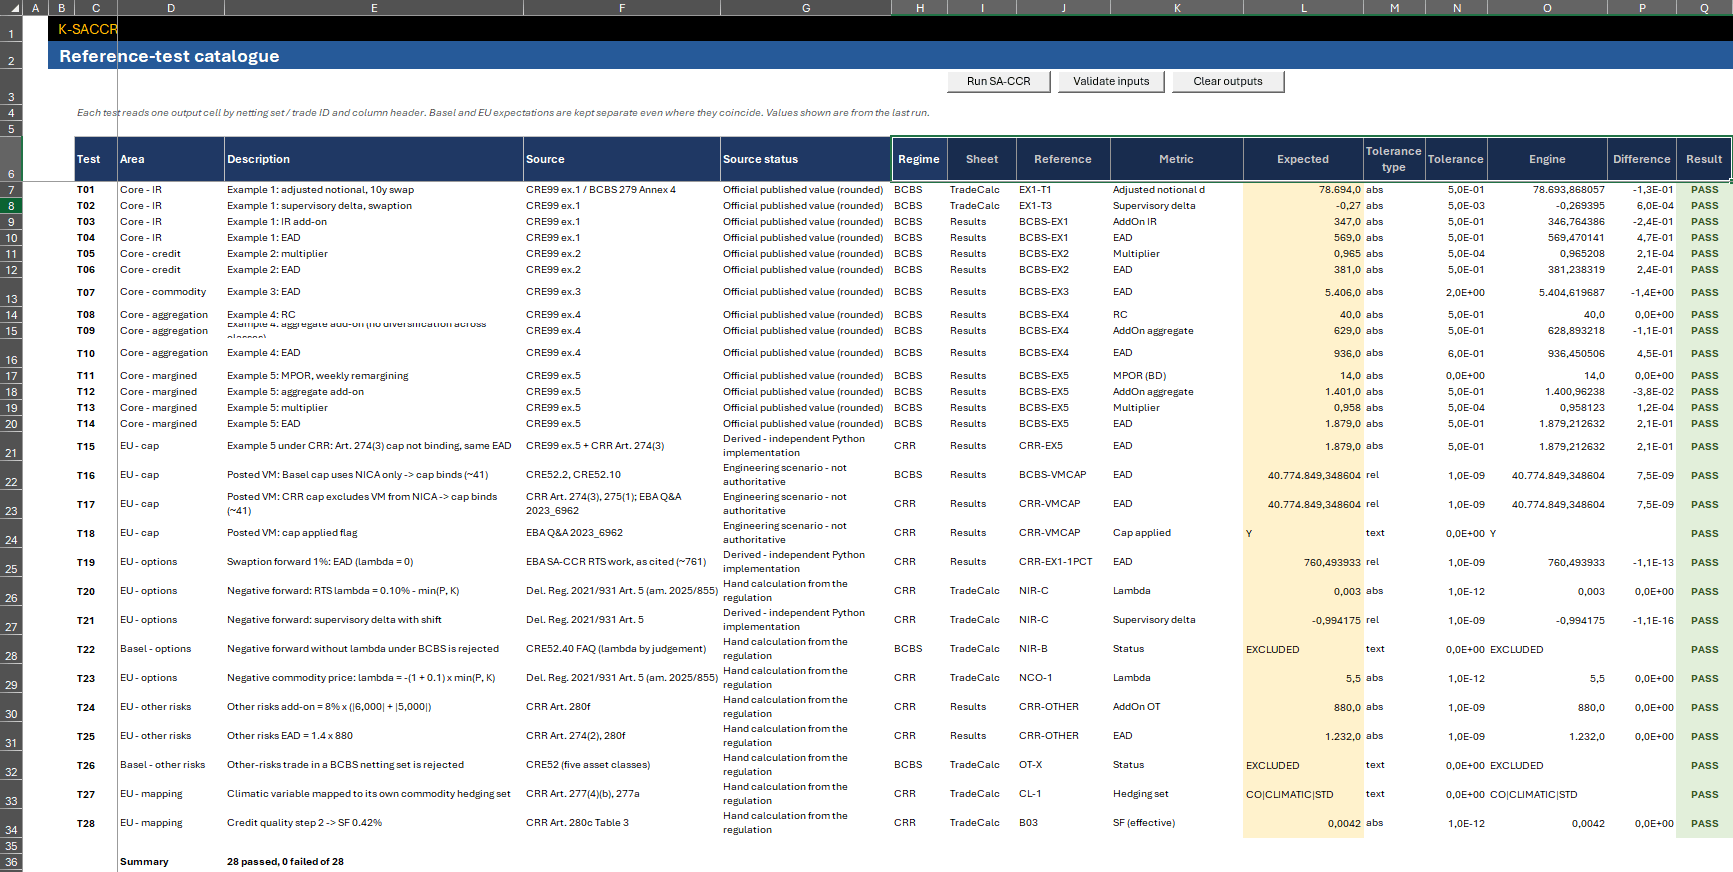
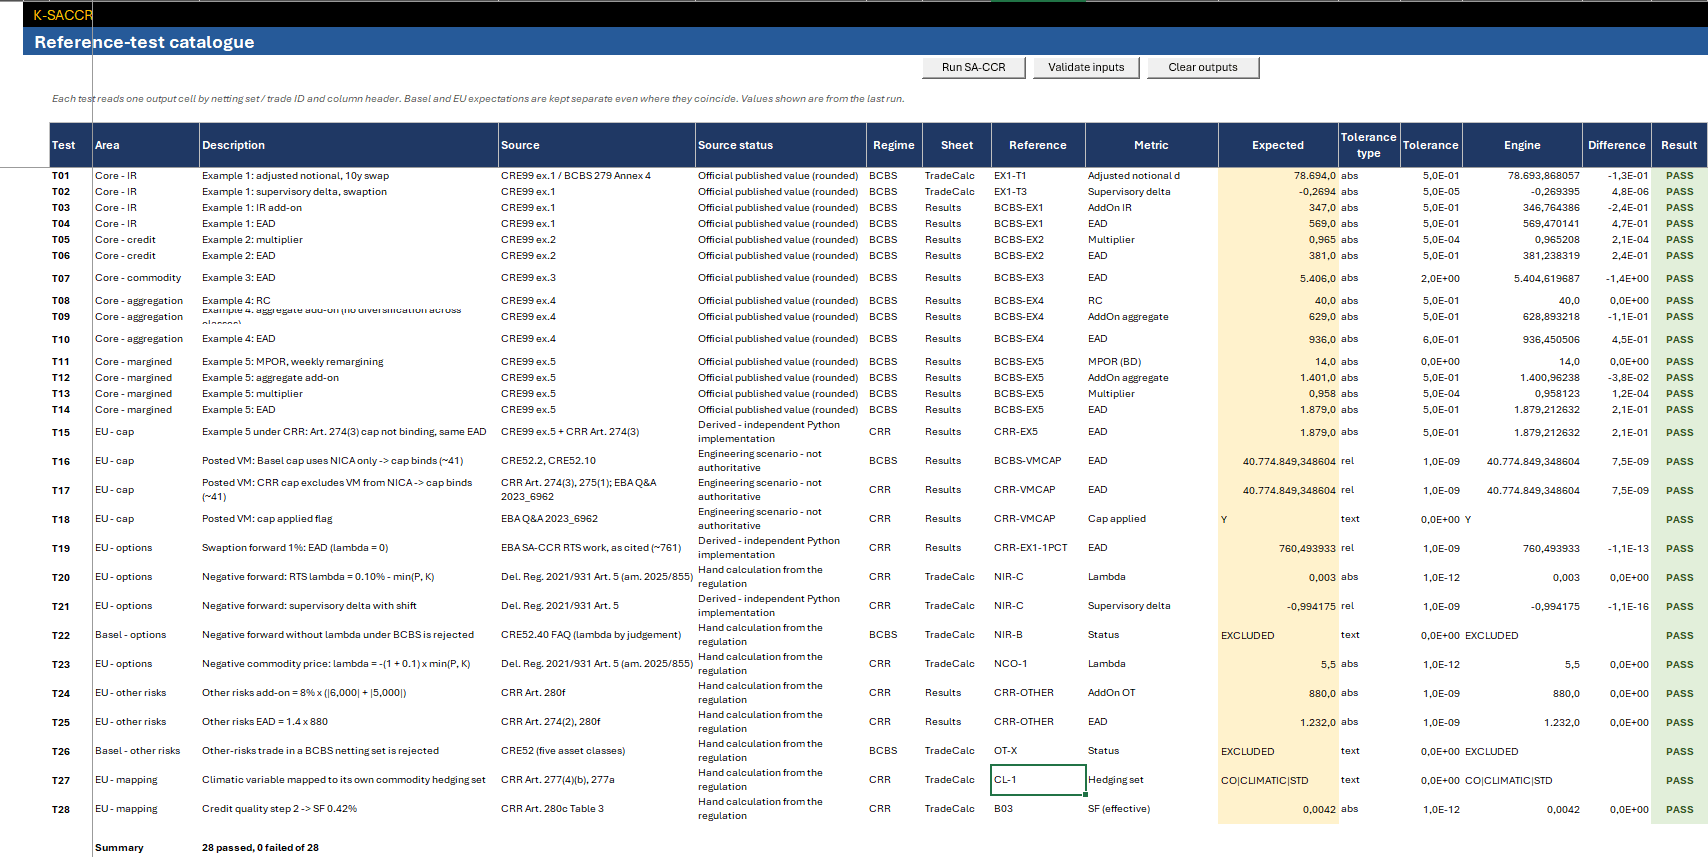
Align three template cells with the expected files and the methodology (#269)
Closes #267. TestCatalogue T02 expects -0.2694 with tolerance 0.00005; the T27 note cites Art. 280e(5), 18%; Basel_vs_CRR K13 states the decided other-risks hedging-set treatment. The README records the owner's Test_RunAll run on this template and the TestCatalogue and Basel_vs_CRR screenshots are retaken. Validated with python tools/check.py; verified in Excel by the owner (Test_RunAll 8/8 at bb7dc8e, TestCatalogue 28 passed, 0 failed).

Changed region(s): [[0.0, 0.0, 1.0, 1.0], [0.8999, 0.9405, 0.993, 0.9708]]

diff --git a/README.md b/README.md
@@ -238,16 +238,16 @@ Test_RunAll
 ```
 
 ```text
-SACCR TEST SUMMARY 2026-10-16 13:02:15
+SACCR TEST SUMMARY 2026-10-16 16:44:53
   PASS  TEST_Harness          completeness=COMPLETE; cases=4; assertions=6; failures=0; cleanup=PASS  (0,0 s)
   PASS  TEST_Formulas         cases=9; checks=82; failures=0  (0,1 s)
-  PASS  TEST_MainState        cases=28; checks=491; failures=0; caller_state=RESTORED  (16,3 s)
-  PASS  TEST_Cases            cases=20; checks=39; failures=0; restore=PASS  (2,9 s)
-  PASS  TEST_InputValidation  cases=133; checks=209; failures=0; restore=PASS  (14,1 s)
-  PASS  TEST_Aggregation      cases=11; checks=11; failures=0; restore=PASS  (2,3 s)
+  PASS  TEST_MainState        cases=28; checks=491; failures=0; caller_state=RESTORED  (24,3 s)
+  PASS  TEST_Cases            cases=20; checks=39; failures=0; restore=PASS  (2,8 s)
+  PASS  TEST_InputValidation  cases=133; checks=209; failures=0; restore=PASS  (15,5 s)
+  PASS  TEST_Aggregation      cases=11; checks=11; failures=0; restore=PASS  (2,4 s)
   PASS  TEST_Invariants       cases=4; checks=23; failures=0; restore=PASS  (1,2 s)
-  PASS  TEST_Reconcile        cases=19; checks=140; failures=0  (7,2 s)
-RESULT=PASS; suites=8; passed=8; failed=0; seconds=44,2
+  PASS  TEST_Reconcile        cases=19; checks=140; failures=0  (7,1 s)
+RESULT=PASS; suites=8; passed=8; failed=0; seconds=53,4
 ```
 
 The suites rewrite inputs, outputs and Params and restore them afterwards: run
@@ -662,8 +662,9 @@ Nothing is versioned or tagged until a release is prepared.
 
 The latest recorded Excel run, `Test_RunAll` with eight of eight suites
 passing, was made by the owner on 2026-10-16 on the source of
-[#254](https://github.com/danielep71/VBA-SACCR-Toolkit/pull/254) at
-[`357a693`](https://github.com/danielep71/VBA-SACCR-Toolkit/commit/357a693c461bdd85d75543394b27fa6c6c944493).
+[#269](https://github.com/danielep71/VBA-SACCR-Toolkit/pull/269) at
+[`bb7dc8e`](https://github.com/danielep71/VBA-SACCR-Toolkit/commit/bb7dc8ea2f1a9d62273dcc74c1634b131cc97ab0), which
+includes the template changes of #260 and #267.
 It is development evidence, not release certification.
 
 ---

diff --git a/tests/README.md b/tests/README.md
@@ -90,7 +90,8 @@ checks.
 
 `published` values are printed in the Basel Framework chapter CRE99 (and BCBS
 279 Annex 4a), rounded to the printed digit, and were checked against the text
-on 2026-10-09. T02 is printed as -0.2694; the catalogue had -0.27. Example 3
+on 2026-10-09. T02 is printed as -0.2694; the prototype catalogue had -0.27,
+and the workbook's TestCatalogue sheet now uses -0.2694 (#267). Example 3
 prints a residual maturity of 9 months for trade 1, so its case runs with
 `DaysPerYear` 360 and 270 days to give exactly 0.75 years. `illustrative`
 values came from a Python implementation that is not in the repository or from
